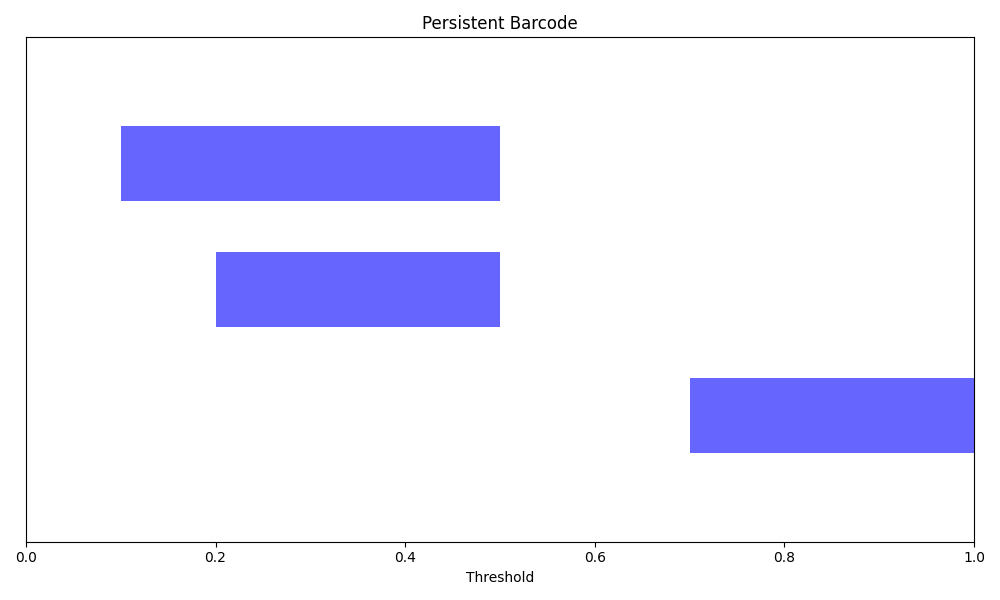
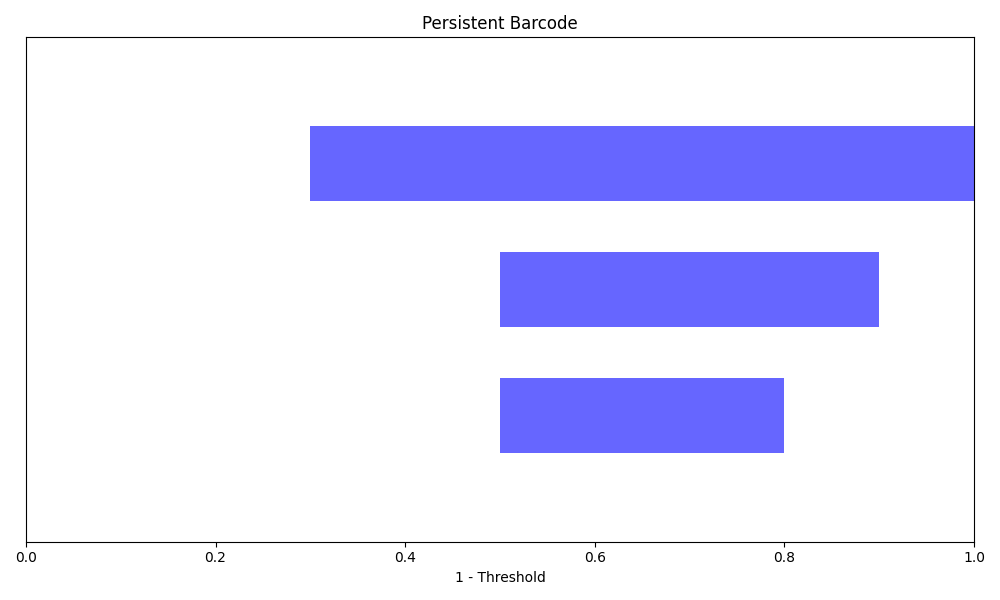
max treeからbarcodeを作成できた。簡単な画像だけ

diff --git a/gaku.py b/gaku.py
@@ -2,52 +2,62 @@ import higra as hg
 import numpy as np
 import matplotlib.pyplot as plt
 
+def find_max_altitude_leaf(tree, altitudes, node):
+    if tree.num_children(node) == 0:  # 葉ノード
+        return node, altitudes[node]
+
+    children = list(tree.children(node))
+    max_leaf = None
+    max_altitude = float('-inf')
+
+    for child in children:
+        leaf, altitude = find_max_altitude_leaf(tree, altitudes, child)
+        if altitude > max_altitude:
+            max_leaf = leaf
+            max_altitude = altitude
+
+    return max_leaf, max_altitude
+
 def create_persistent_barcode(tree, altitudes):
     n_vertices = tree.num_vertices()
     barcode = []
-    active_components = {}  # key: node, value: (birth_altitude, node)
+    active_components = {}  # key: node, value: birth_altitude
 
-    # ノードをaltitudeの昇順にソート (葉ノードからルートノードに向かって処理)
-    leaves = set(tree.leaves())
-    print("n_vertices", range(n_vertices))
+    # ノードをaltitudeの降順にソート (ルートノードから葉ノードに向かって処理)
     sorted_nodes = sorted(range(n_vertices), key=lambda x: altitudes[x], reverse=True)
-    print("sorted_nodes", sorted_nodes)
 
     for node in sorted_nodes:
         current_altitude = altitudes[node]
-        parent = tree.parent(node)
+        children = list(tree.children(node))
 
-        if tree.num_children(node) == 0:  # 葉ノード
-            active_components[node] = (current_altitude, node)
+        if not children:  # 葉ノード
+            active_components[node] = current_altitude
         else:  # 内部ノード
-            children = list(tree.children(node))
+            child_components = [active_components[child] for child in children if child in active_components]
 
-            if len(children) > 1:
-                # 子ノードの中で最も高いaltitudeを持つものを見つける
-                max_child = max(children, key=lambda x: altitudes[x] if x in active_components else -1)
+            if child_components:
+                # 子ノードの中で最も高いaltitudeを持つ葉ノードを見つける
+                max_child, _ = max((find_max_altitude_leaf(tree, altitudes, child) for child in children), key=lambda x: x[1])
 
                 for child in children:
                     if child in active_components:
-                        birth_altitude, birth_node = active_components[child]
-                        if child != max_child:
-                            # 最大の子以外の成分は消滅
-                            barcode.append((birth_altitude, current_altitude))
+                        birth_altitude = active_components[child]
+                        leaf, _ = find_max_altitude_leaf(tree, altitudes, child)
+                        if leaf != max_child:
+                            # 最大のaltitudeを持つ葉ノード以外の成分は消滅
+                            barcode.append((1.0-birth_altitude, 1.0-current_altitude))
                         else:
-                            # 最大の子の成分は継続
-                            active_components[node] = (birth_altitude, birth_node)
+                            # 最大のaltitudeを持つ葉ノードの成分は継続
+                            active_components[node] = birth_altitude
                         del active_components[child]
             else:
-                # 子ノードが1つの場合、その成分を継続
-                child = children[0]
-                if child in active_components:
-                    active_components[node] = active_components[child]
-                    del active_components[child]
+                # 新しい連結成分が生まれる場合
+                active_components[node] = current_altitude
 
     # ルートノードの処理
     root = tree.root()
     if root in active_components:
-        birth_altitude, _ = active_components[root]
-        barcode.append((birth_altitude, 1.0))
+        barcode.append((1.0-active_components[root], 1.0))
 
     return barcode
 
@@ -81,10 +91,6 @@ new_tree, node_map = hg.simplify_tree(tree, deleted_vertices, process_leaves=Tru
 
 new_altitudes = altitudes[node_map]
 
-# new_altitudes = np.maximum.accumulate(altitudes[node_map])
-
-
-
 print("Original tree:", tree.parents())
 print("newtree_leaf", set(new_tree.leaves()))
 print("New tree:", new_tree.parents())
@@ -114,6 +120,8 @@ plot_tree(new_tree, new_altitudes, ax)
 ax.set_title('Simplified Tree')
 ax.set_xlabel('Node Index')
 ax.set_ylabel('Altitude')
+# y軸のrangeを1から0に変更
+ax.set_ylim(1, 0)
 ax.grid(True)
 
 # 画像として保存
@@ -126,7 +134,7 @@ barcode = create_persistent_barcode(new_tree, new_altitudes)
 fig, ax = plt.subplots(figsize=(10, 6))
 
 # バーを長さ順にソート
-sorted_barcode = sorted(barcode, key=lambda x: x[1] - x[0], reverse=True)
+sorted_barcode = sorted(barcode, key=lambda x: x[1] - x[0])
 
 for i, (birth, death) in enumerate(sorted_barcode):
     if birth != death:
@@ -135,7 +143,7 @@ for i, (birth, death) in enumerate(sorted_barcode):
 for i, (birth, death) in enumerate(sorted_barcode):
     ax.barh(i, death - birth, left=birth, height=0.6, color='blue', alpha=0.6)
 
-ax.set_xlabel('Threshold')
+ax.set_xlabel('1 - Threshold')
 ax.set_title('Persistent Barcode')
 ax.set_ylim(-1, len(barcode))
 ax.set_xlim(0, 1)

diff --git a/take.py b/take.py
@@ -2,48 +2,71 @@ import higra as hg
 import numpy as np
 import matplotlib.pyplot as plt
 
+def find_max_altitude_leaf(tree, altitudes, node):
+    if tree.num_children(node) == 0:  # 葉ノード
+        return node, altitudes[node]
+
+    children = list(tree.children(node))
+    max_leaf = None
+    max_altitude = float('-inf')
+
+    for child in children:
+        leaf, altitude = find_max_altitude_leaf(tree, altitudes, child)
+        if altitude > max_altitude:
+            max_leaf = leaf
+            max_altitude = altitude
+
+    return max_leaf, max_altitude
+
 def create_persistent_barcode(tree, altitudes):
     n_vertices = tree.num_vertices()
     barcode = []
-    active_components = {}  # key: node, value: birth_altitude
+    active_components = {}  # key: node, value: (birth_altitude, node)
 
-    # ノードをaltitudeの降順にソート (ルートノードから葉ノードに向かって処理)
+    # ノードをaltitudeの昇順にソート (葉ノードからルートノードに向かって処理)
+    leaves = set(tree.leaves())
+    print("n_vertices", range(n_vertices))
     sorted_nodes = sorted(range(n_vertices), key=lambda x: altitudes[x], reverse=True)
+    print("sorted_nodes", sorted_nodes)
 
     for node in sorted_nodes:
         current_altitude = altitudes[node]
-        children = list(tree.children(node))
+        parent = tree.parent(node)
 
-        if not children:  # 葉ノード
-            active_components[node] = current_altitude
+        if tree.num_children(node) == 0:  # 葉ノード
+            active_components[node] = (current_altitude, node)
         else:  # 内部ノード
-            child_components = [active_components[child] for child in children if child in active_components]
+            children = list(tree.children(node))
 
-            if child_components:
-                # 子ノードの中で最も高いbirth altitudeを持つものを見つける
-                max_birth = max(child_components)
+            if len(children) > 1:
+                # 子ノードの中で最も高いaltitudeを持つものを見つける
+                max_child, _ = max((find_max_altitude_leaf(tree, altitudes, child) for child in children), key=lambda x: x[1])
+                print("max_child", max_child)
 
                 for child in children:
                     if child in active_components:
-                        birth_altitude = active_components[child]
-                        if birth_altitude != max_birth:
-                            # 最大のbirth altitude以外の成分は消滅
+                        birth_altitude, birth_node = active_components[child]
+                        if child != max_child:
+                            # 最大の子以外の成分は消滅
                             barcode.append((birth_altitude, current_altitude))
                         else:
-                            # 最大のbirth altitudeを持つ成分は継続
-                            active_components[node] = birth_altitude
+                            # 最大の子の成分は継続
+                            active_components[node] = (birth_altitude, birth_node)
                         del active_components[child]
             else:
-                # 新しい連結成分が生まれる場合
-                active_components[node] = current_altitude
+                # 子ノードが1つの場合、その成分を継続
+                child = children[0]
+                if child in active_components:
+                    active_components[node] = active_components[child]
+                    del active_components[child]
 
     # ルートノードの処理
     root = tree.root()
     if root in active_components:
-        barcode.append((active_components[root], 1.0))
+        birth_altitude, _ = active_components[root]
+        barcode.append((birth_altitude, 1.0))
 
     return barcode
-
 
 # サンプル画像の定義と正規化
 image = np.array([
